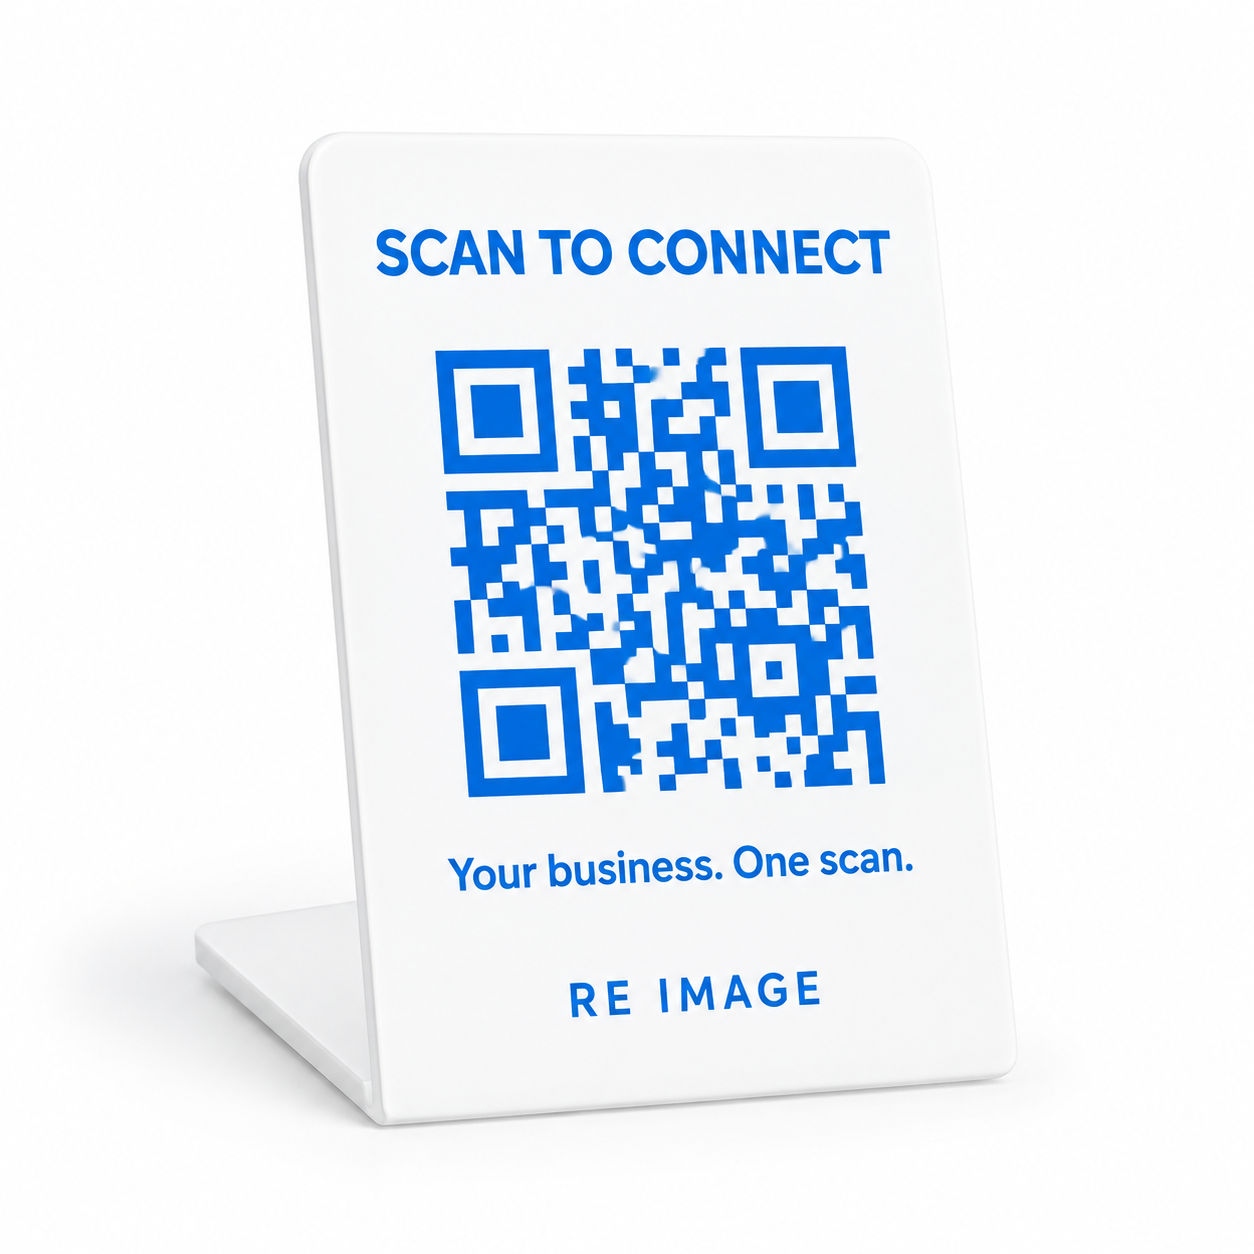
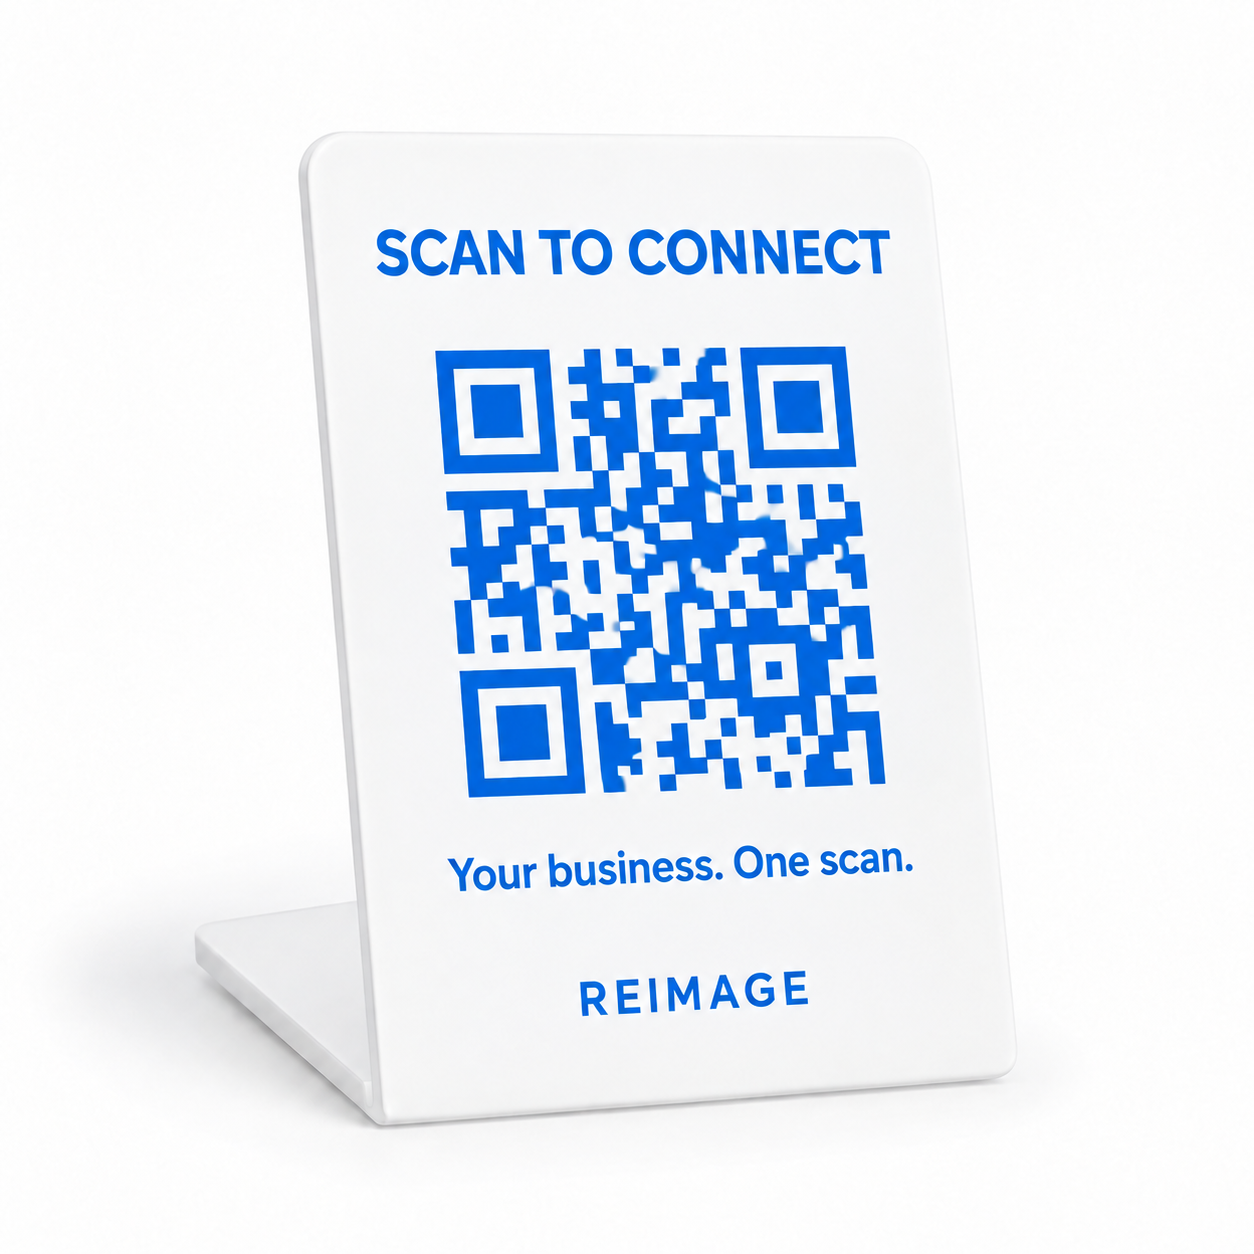
Correct QR stand branding to REIMAGE without a space

Changed region(s): [[0.4354, 0.7775, 0.6531, 0.8086], [0.4665, 0.6842, 0.5598, 0.7153]]

diff --git a/products.html b/products.html
@@ -157,7 +157,7 @@
       </figure>
 
       <div class="commerce-purchase reveal delay-one">
-        <span class="commerce-label">RE IMAGE Products</span>
+        <span class="commerce-label">REIMAGE Products</span>
         <h1 id="product-title">Employee Clock-In System</h1>
         <p class="commerce-summary">A simple wall-mounted clock for employee hours, geofence verification, and manager oversight.</p>
         <div class="commerce-price" aria-label="299 dollars one time plus 14 dollars and 99 cents per month">
@@ -178,7 +178,7 @@
         <figcaption>Personalized 3D-printed card · Front &amp; back</figcaption>
       </figure>
       <div class="business-card-copy">
-        <span class="commerce-label">RE IMAGE Products</span>
+        <span class="commerce-label">REIMAGE Products</span>
         <h2 id="business-card-title">Customized Business Cards</h2>
         <p class="commerce-summary">Your name and title on a 3D-printed card. A permanent QR code on the back opens your customized landing page with all your contact information and links.</p>
         <div class="commerce-price" aria-label="99 dollars and 99 cents">
@@ -196,11 +196,11 @@
 
     <section class="business-card-product qr-stand-product" aria-labelledby="qr-stand-title">
       <figure class="business-card-photo">
-        <img src="assets/qr-display-stand.png" width="1254" height="1254" alt="White countertop QR display stand with blue lettering and a blue QR code" loading="lazy">
+        <img src="assets/qr-display-stand.png?v=2" width="1254" height="1254" alt="White countertop QR display stand with blue lettering and a blue QR code" loading="lazy">
         <figcaption>Countertop QR display stand</figcaption>
       </figure>
       <div class="business-card-copy">
-        <span class="commerce-label">RE IMAGE Products</span>
+        <span class="commerce-label">REIMAGE Products</span>
         <h2 id="qr-stand-title">Custom QR Display Stand</h2>
         <p class="commerce-summary">Put your business one scan away. A clean countertop display with a QR code for your menu, reviews, booking page, or website.</p>
         <div class="qr-stand-options">
